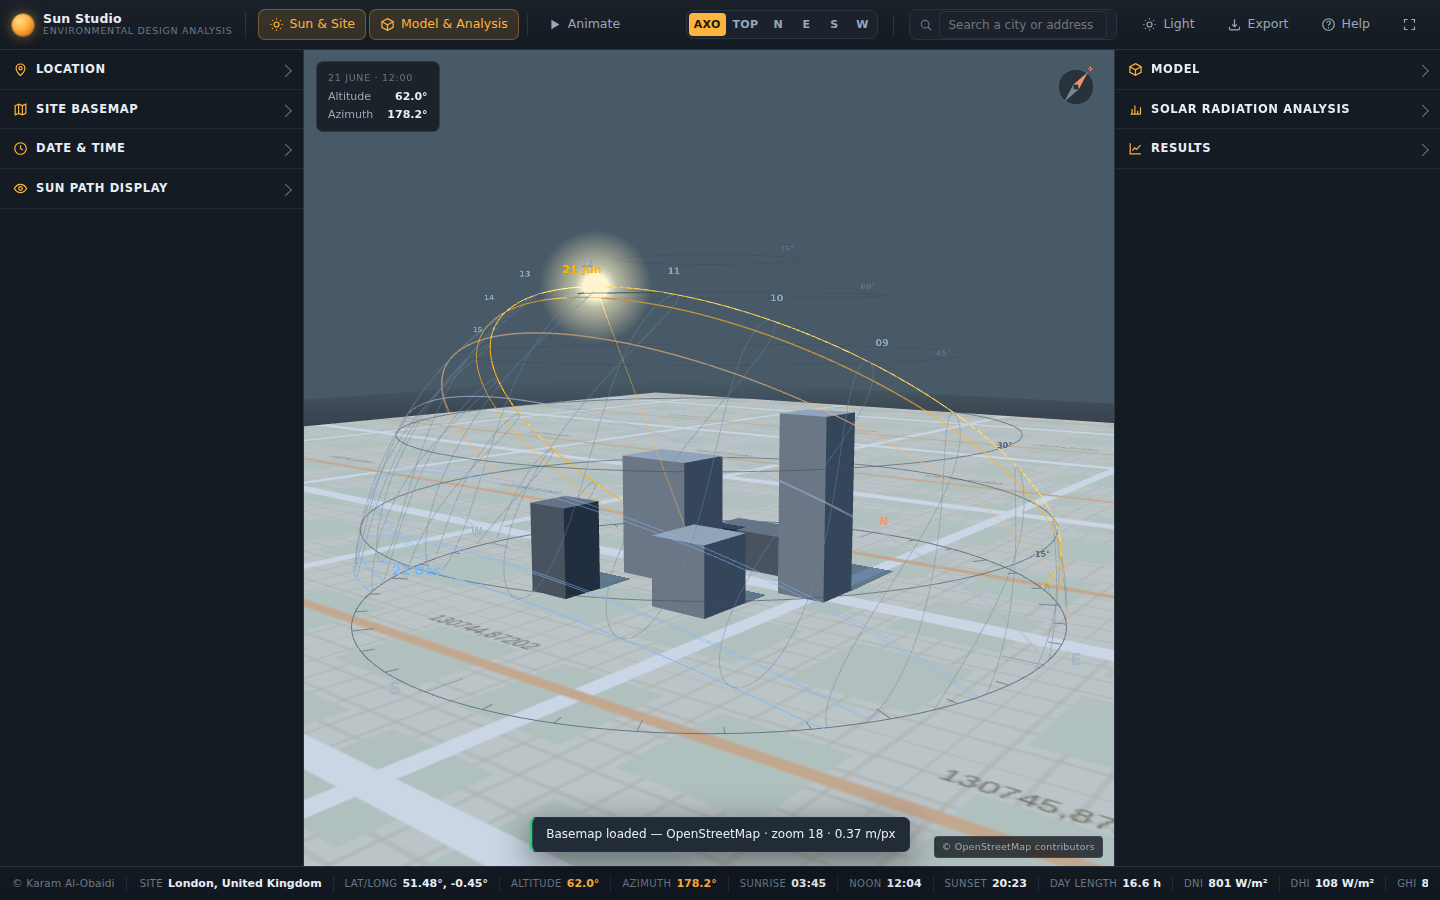
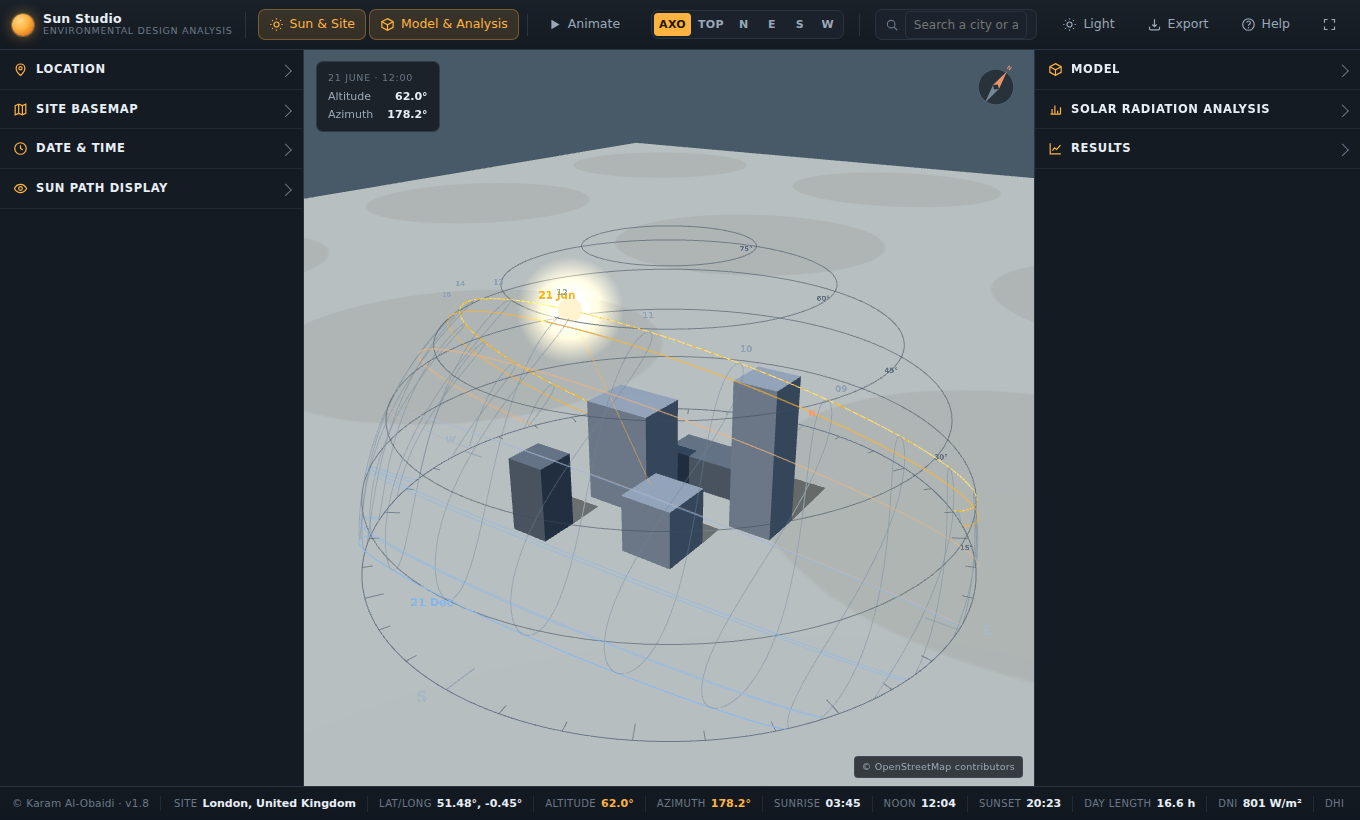
Fix the basemap striping: it was the shadow frustum, not depth precision
I misdiagnosed this twice. The straight-edged banded region was the shadow
camera's frustum boundary, not z-fighting. The basemap was a shadow receiver up
to a kilometre across while the shadow camera was sized to the model — about
53 m — so most of the map sampled outside the depth texture and came back as
hard-edged banded darkness. Separating the ground planes could not have helped,
because depth was never involved.

Fitting the frustum to the basemap fixed the edge but replaced it with acne:
2048 texels spread over a kilometre. So shadows now land on a dedicated
ShadowMaterial catcher sized to the model's neighbourhood — it draws the shadow
and nothing else, letting the map show through untouched — and neither the
basemap nor the ground receives shadows at all. The frustum stays at ±110 m
whether the map is 570 m or 2700 m across, so shadows stay sharp and no large
receiver can fall outside it.

Kept from the earlier attempt, since both are still right: the ground planes are
no longer millimetres apart, and the ground is hidden entirely under a basemap
rather than competing with it for depth.

Verified with a banding detector — row-to-row luminance alternation over pale
tiles, rather than dark-pixel counting, which would not have caught grey stripes
— across three basemap sizes and four camera angles. The residual difference
between shadows on and off turned out to be the real shadow edges.
[…]

Changed region(s): [[0.0, 0.0, 1.0, 1.0], [0.9265, 0.0, 0.9574, 0.061], [0.525, 0.7622, 0.5559, 0.7927]]

diff --git a/index.html b/index.html
@@ -2209,8 +2209,37 @@ ground.rotation.x = -Math.PI / 2;
 // survive the depth buffer's precision at site distances. 2 mm did not: it
 // striped the map. Centimetres, all below y=0 so buildings still meet the map.
 ground.position.y = -0.30;
-ground.receiveShadow = true;
+ground.receiveShadow = false;   // the shadow catcher handles this now
 scene.add(ground);
+
+/**
+ * Shadows are caught by a small dedicated plane rather than by the ground or the
+ * basemap.
+ *
+ * A basemap can be a kilometre across. Making it a shadow receiver forces the
+ * shadow camera to cover all of it, which either leaves most of it outside the
+ * frustum — hard-edged banded darkness along the boundary, which is what was
+ * reported — or spreads 2048 texels over 1000 m, which is acne. Shadows only
+ * matter next to the building, so this plane covers just that, uses
+ * ShadowMaterial so it draws the shadow and nothing else, and lets the map show
+ * through untouched everywhere else.
+ */
+const shadowCatcher = new THREE.Mesh(
+  new THREE.PlaneGeometry(1, 1),
+  new THREE.ShadowMaterial({ opacity: 0.42, depthWrite: false, fog: false }));
+shadowCatcher.rotation.x = -Math.PI / 2;
+shadowCatcher.position.y = -0.06;          // above the ground, basemap and grid
+shadowCatcher.receiveShadow = true;
+shadowCatcher.renderOrder = 1;
+shadowCatcher.userData.noAnalysis = true;
+scene.add(shadowCatcher);
+
+/** Size the catcher to the model's neighbourhood; returns its half-extent. */
+function fitShadowCatcher(){
+  const half = Math.max(State.modelRadius * 3.2, 60);
+  shadowCatcher.scale.set(half * 2, half * 2, 1);
+  return half;
+}
 
 // GridHelper bakes its colours into vertex data, so a theme change rebuilds it.
 let gridHelper = null;
@@ -2325,7 +2354,7 @@ const Mercator = (() => {
  * running build can be identified at a glance — a stale download that looks
  * almost right is otherwise very hard to tell apart from the current one.
  */
-const BUILD = '1.7';
+const BUILD = '1.8';
 
 const MAPTILER_KEY = '';
 
@@ -2419,6 +2448,8 @@ const Basemap = (() => {
     if (texture){ texture.dispose(); texture = null; }
     state = { kind: 'none', attribution: '', extent: 0, tainted: false, note: '' };
     if (gridHelper) gridHelper.visible = State.disp.grid;
+    ground.visible = true;
+    sunLight.shadow.needsUpdate = true;
     requestRender();
     updateAttribution();
   }
@@ -2444,7 +2475,7 @@ const Basemap = (() => {
       }));
     mesh.rotation.x = -Math.PI / 2;
     mesh.position.set(offsetX, -0.12, offsetZ);
-    mesh.receiveShadow = true;
+    mesh.receiveShadow = false;     // shadows land on the catcher above it
     mesh.userData.noAnalysis = true;
     basemapGroup.add(mesh);
 
@@ -2453,6 +2484,9 @@ const Basemap = (() => {
     // A survey grid over a real map is clutter, and it is the surface most
     // likely to fight the basemap for depth
     if (gridHelper) gridHelper.visible = false;
+    // The map replaces the ground it covers; leaving both means two coplanar
+    // surfaces competing for depth on whatever GPU happens to be in use.
+    ground.visible = false;
     sunLight.shadow.needsUpdate = true;
     requestRender();
     updateAttribution();
@@ -2780,7 +2814,10 @@ function updateSunVisuals(sun){
   sunRay.geometry.computeBoundingSphere();
 
   // Directional light: far enough away that the ortho shadow camera covers the site
-  const d = Math.max(R * 2.4, 90);
+  // The frustum only has to cover the catcher, so it stays tight and sharp
+  // however large the basemap is.
+  const shadowExt = fitShadowCatcher() * 1.02;
+  const d = Math.max(R * 2.4, shadowExt * 2.4, 90);
   sunLight.position.set(v.x * d, Math.max(v.y, 0.02) * d, v.z * d);
   sunLight.target.position.set(0, 0, 0);
   sunLight.target.updateMatrixWorld();
@@ -2792,10 +2829,13 @@ function updateSunVisuals(sun){
   requestRender();
 
   const cam = sunLight.shadow.camera;
-  const ext = Math.max(State.modelRadius * 1.55, 26);
-  cam.left = -ext; cam.right = ext; cam.top = ext; cam.bottom = -ext;
-  cam.near = 1; cam.far = d * 2.4;
+  cam.left = -shadowExt; cam.right = shadowExt;
+  cam.top = shadowExt;   cam.bottom = -shadowExt;
+  cam.near = 1; cam.far = d * 2.6;
   cam.updateProjectionMatrix();
+  // A wider frustum spreads the same 2048 texels over more ground, so the bias
+  // has to grow with it or the shadows acne instead.
+  sunLight.shadow.normalBias = clamp(shadowExt * 0.0016, 0.03, 0.12);
 
   // Ambient sky tint follows the sun height so dusk reads as dusk
   const dayness = clamp(Math.sin(Math.max(sun.altitude, -6) * D2R) * 1.6 + 0.16, 0.05, 1);
@@ -5341,6 +5381,9 @@ function init(){
   rebuildAll({ frame: true });
   updateRunHint();
   requestAnimationFrame(loop);
+  // Say which build this is, out loud. Three rounds of debugging went into
+  // symptoms that a stale file had already fixed.
+  toast('Sun Studio v' + BUILD + ' loaded.', 'info', 4000);
   Tour.maybeAutoStart();
 
   // Public surface for the automated test suite
@@ -5354,6 +5397,18 @@ function init(){
     resolveMapKey, MAPTILER_KEY_STORE, sourceAttribution, PROXY_URL, PROXY_ATTRIBUTION,
     loadPlaces, savePlace, removePlace, renderPlaces, PLACES_KEY,
     requestRender, BUILD,
+    /** Shadow frustum vs what actually receives shadows. */
+    shadowProbe: () => ({
+      ext: sunLight.shadow.camera.right,
+      far: sunLight.shadow.camera.far,
+      lightDist: sunLight.position.length(),
+      normalBias: sunLight.shadow.normalBias,
+      basemapExtent: Basemap.info.extent,
+      groundVisible: ground.visible,
+      catcherHalf: shadowCatcher.scale.x / 2,
+      basemapReceives: Basemap.mesh ? Basemap.mesh.receiveShadow : null,
+      groundReceives: ground.receiveShadow,
+    }),
     /** Place the camera at an azimuth/elevation for orbit-sweep diagnostics. */
     orbitTo(azDeg, elevDeg){
       const d = camera.position.distanceTo(controls.target);

diff --git a/README.md b/README.md
@@ -282,7 +282,7 @@ It is clearly labelled as synthetic; it is not real climate.
 
 ## Validation
 
-`npm test` runs 138 headless checks. Every number below is produced by that suite, not
+`npm test` runs 141 headless checks. Every number below is produced by that suite, not
 asserted by hand.
 
 | Check | Result |
@@ -376,7 +376,7 @@ rebuilds live on every change, with no "apply" step.
 ```bash
 npm install          # playwright, for the test suite only
 npm run vendor       # fetch three.js and the validation EPW
-npm test             # 138 headless checks, screenshots and sample export sheets
+npm test             # 141 headless checks, screenshots and sample export sheets
 npm run serve        # serve the folder at http://localhost:8080
 ```
 
